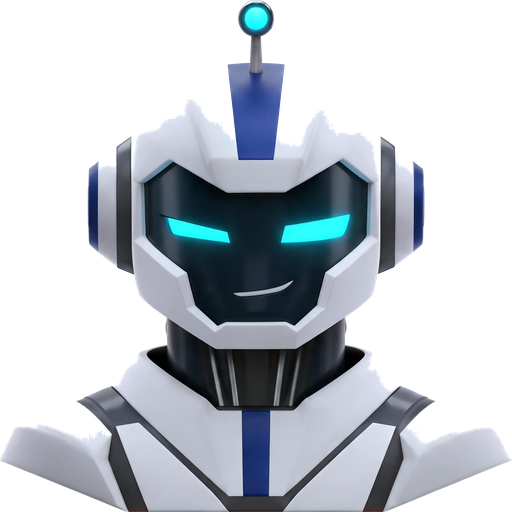
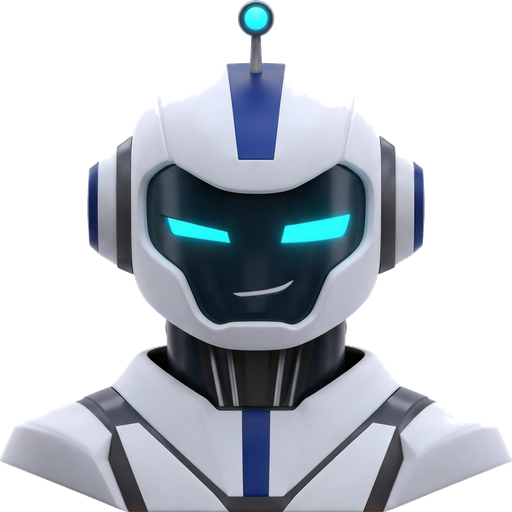
feat(brand): mascot v2 — clean head armor beside antenna, transparent bg, tighter crop
- Regenerated robot with smooth symmetric armor panels beside the
  antenna fin (no spikes/jagged edges), same character/colors/smirk.
- Background removed (transparent PNG, robot only — no blue gradient),
  tighter crop so the robot fills the frame a bit more.
- Face crop + favicon regenerated; eyelid boxes re-measured on the
  new image and verified by overlay.

diff --git a/frontend/components/brand-mascot.tsx b/frontend/components/brand-mascot.tsx
@@ -25,12 +25,12 @@ type Props = {
  */
 const EYES: Record<'face' | 'full', { left: number; top: number; w: number; h: number }[]> = {
   full: [
-    { left: 31.6, top: 41.4, w: 14.3, h: 6.9 },
-    { left: 53.7, top: 40.6, w: 15.7, h: 7.7 },
+    { left: 31.4, top: 42.0, w: 14.8, h: 5.8 },
+    { left: 52.9, top: 41.1, w: 20.6, h: 6.8 },
   ],
   face: [
-    { left: 27.0, top: 62.8, w: 17.9, h: 8.6 },
-    { left: 54.6, top: 61.8, w: 19.7, h: 9.7 },
+    { left: 26.8, top: 63.4, w: 18.5, h: 7.9 },
+    { left: 53.7, top: 62.2, w: 25.8, h: 9.2 },
   ],
 };
 
